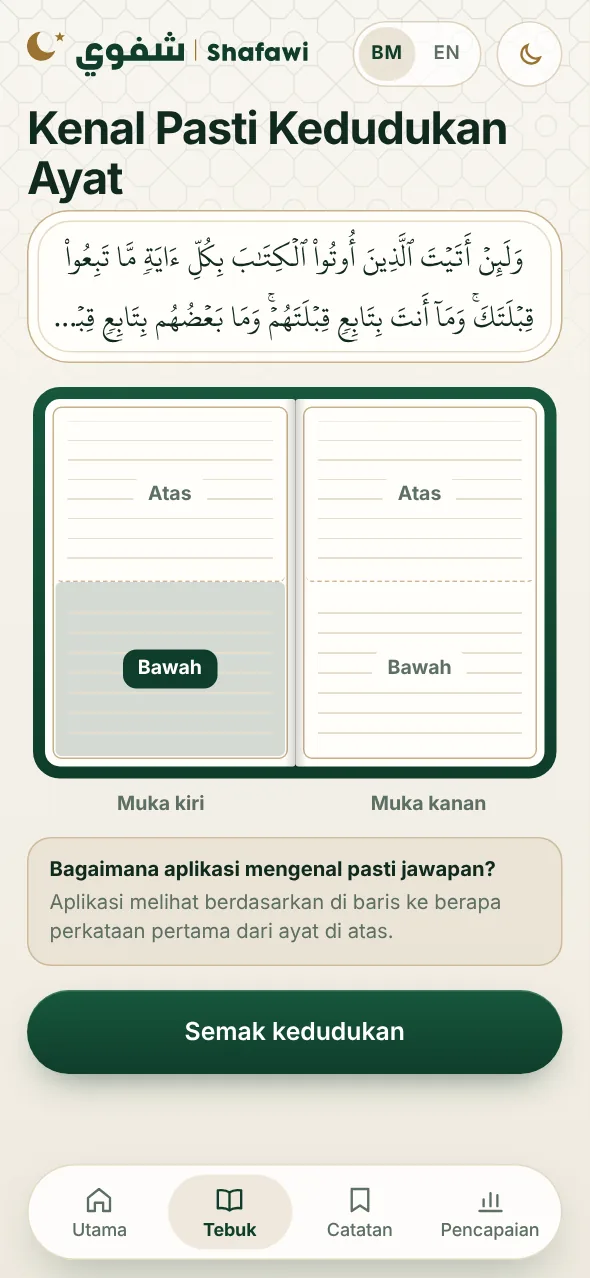
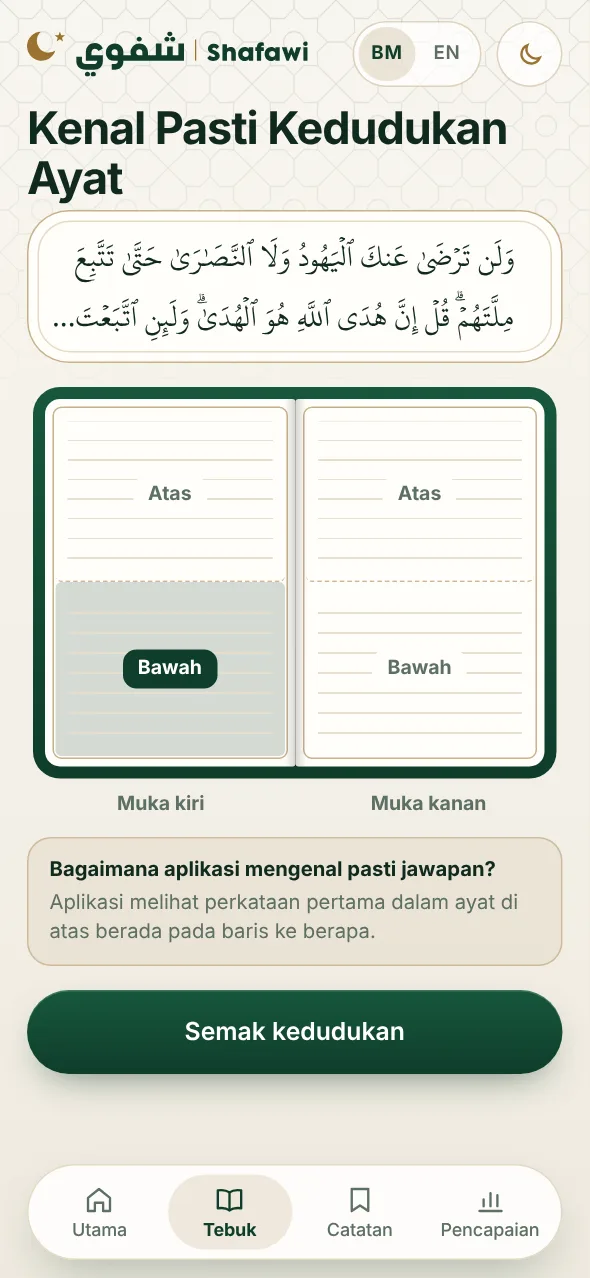
Tukar ayat jawapan nota Kenal Pasti Kedudukan (#36)
* Nota peraturan baris di skrin Kenal Pasti Kedudukan

Subtajuk kini terangkan baris 8 diterima atas/bawah; label zon tunjuk Baris 1-7 / 9-15. Tiada perubahan logik. SW v29.

Claude-Session: https://claude.ai/code/session_017x16dzHnU7uQMJdnifcipX

* Pindah nota ke bawah mushaf, buang label baris

Nota: 'Bagaimana aplikasi mengenal pasti jawapan?' di bawah Muka kiri/kanan. Subtajuk asal dikembalikan.

Claude-Session: https://claude.ai/code/session_017x16dzHnU7uQMJdnifcipX

* Buang subtajuk 'Tekan bahagian muka surat' di skrin kedudukan

Claude-Session: https://claude.ai/code/session_017x16dzHnU7uQMJdnifcipX

* Ubah ayat nota: di baris ke berapa perkataan pertama

Claude-Session: https://claude.ai/code/session_017x16dzHnU7uQMJdnifcipX

* Tukar ayat jawapan nota kedudukan; kemas kini gambar pengenalan

Claude-Session: https://claude.ai/code/session_017x16dzHnU7uQMJdnifcipX

---------

Changed region(s): [[0.122, 0.1831, 0.9153, 0.2746], [0.0915, 0.7019, 0.8847, 0.7324]]

diff --git a/app.js b/app.js
@@ -24,7 +24,7 @@ const TX={
   lblSurah:n=>'Surah '+n,lblPages:(a,b)=>`Muka surat ${a}–${b}`,noAyat:'Tiada ayat dalam pilihan ini',
   nextAyah:'Ayat seterusnya',prevAyah:'Ayat sebelumnya',qN:n=>'Soalan '+n,contAyah:'Sambung ayat ini',idBoth:'Kenal Pasti Surah &amp; Kedudukan Ayat',endSess:'Tamat sesi',
   surOk:'Masyallah mumtaz. Jawapan anda betul',surNo:'Jawapan anda salah. Teruskan murajaah',surAns:n=>`Jawapannya Surah ${n}`,idSurah:'Kenal Pasti Surah',whichSurah:'Ayat ini daripada surah apa?',idPos:'Kenal Pasti Kedudukan Ayat',checkSurah:'Semak surah',
-  top:'Atas',bottom:'Bawah',checkPos:'Semak kedudukan',posTipQ:'Bagaimana aplikasi mengenal pasti jawapan?',posTipA:'Aplikasi melihat berdasarkan di baris ke berapa perkataan pertama dari ayat di atas.',
+  top:'Atas',bottom:'Bawah',checkPos:'Semak kedudukan',posTipQ:'Bagaimana aplikasi mengenal pasti jawapan?',posTipA:'Aplikasi melihat perkataan pertama dalam ayat di atas berada pada baris ke berapa.',
   posOk:'Masyallah mumtaz. Jawapan anda betul',posNo:'Jawapan anda salah. Teruskan murajaah',pg:n=>'ms '+n,right:'kanan',left:'kiri',topL:'atas',bottomL:'bawah',mid:'tengah',
   loadingPage:n=>`Memuatkan muka surat ${n}…`,nextPage:'Muka surat selepas',prevPage:'Muka surat sebelum',nextQ:'Soalan seterusnya',backTo:n=>`Kembali ke ms ${n}`,
   noteHint:'Catat ayat yang perlu diulang.',ayah:'Ayat',katLbl:'Kategori catatan',catatan:'Catatan',writeNote:'Tulis catatan',saveNote:'Simpan nota',saved:r=>`Nota ${r} disimpan`,

diff --git a/sw.js b/sw.js
@@ -1,5 +1,5 @@
 // Shafawi service worker: keeps the app and the mushaf data available offline.
-const VERSION = 'thebook-v32';
+const VERSION = 'thebook-v33';
 const SHELL = ['./', 'index.html', 'styles.css', 'app.js', 'manifest.webmanifest',
   'data/quran.json', 'data/mushaf.json', 'data/hafs.ttf', 'icons/icon.svg', 'icons/apple-touch-icon.png',
   'icons/icon-192.png', 'icons/icon-512.png', 'icons/splash-1179x2556.png', 'icons/splash-1179x2556-gelap.png', 'icons/logo-penuh.svg', 'icons/wordmark.svg'];
